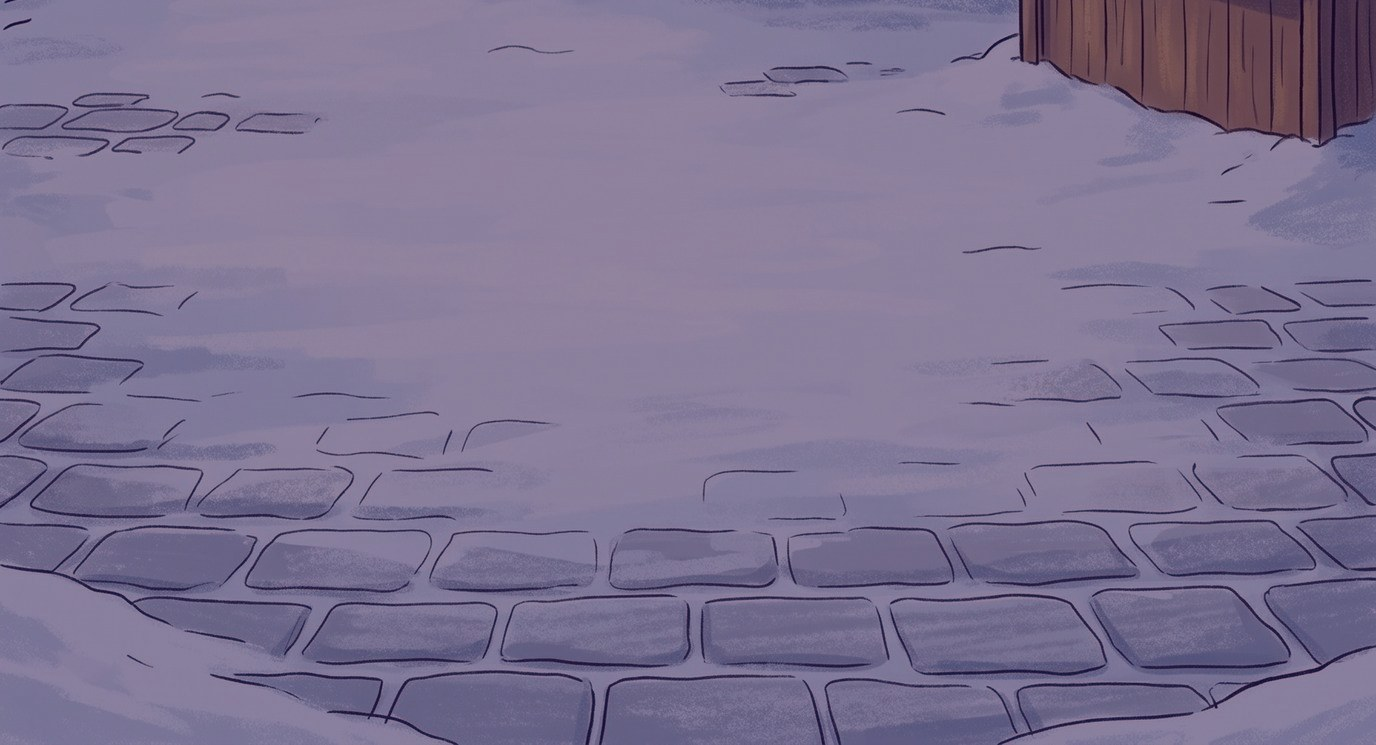
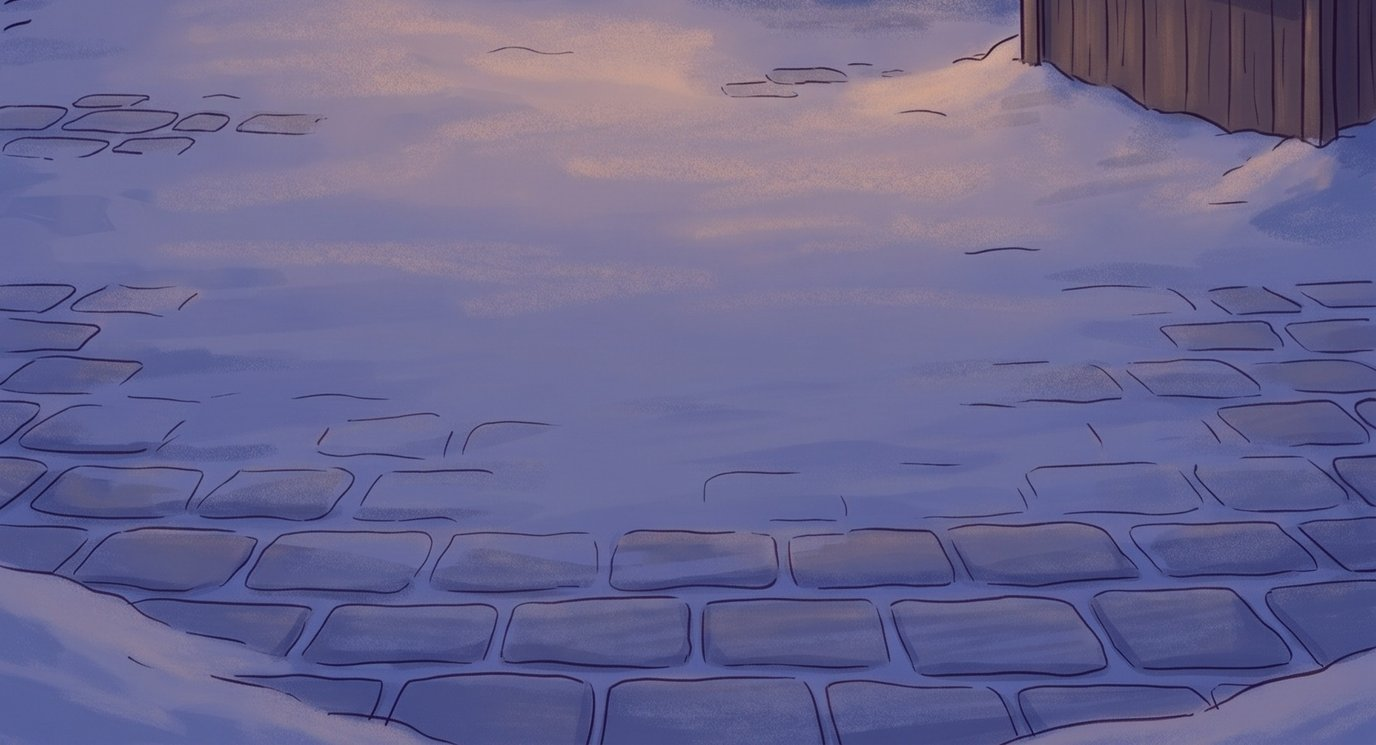
Christmas lighting: the camera runs up the lit tree to its star, then everyone; the friends watch the tree from behind; note memo mockups

diff --git a/index.html b/index.html
@@ -64,7 +64,8 @@ button:focus-visible,input:focus-visible{outline:3px dashed var(--berry);outline
 .scene{position:relative;flex:1 1 auto;min-height:0;overflow:hidden;display:flex;flex-direction:column}
 .stage-area{position:absolute;inset:0;overflow:hidden;background:var(--paper-2)}
 .stage-area .art{width:var(--world-width);height:var(--world-height);transform-origin:0 0;pointer-events:none}
-.art > .art-floor{display:none}
+.art > .art-floor,.art > .art-sky{display:none}
+.stage-area .art-sky{display:block;position:absolute;left:0;bottom:100%;width:100%;height:auto;pointer-events:none}
 .stage-area .art-floor,.art-wrap .art > .art-floor{display:block;position:absolute;left:0;top:100%;width:100%;height:auto;pointer-events:none}
 .art-wrap .art{height:calc(100% * var(--art-share, 1))}
 .stage-area .spot,.stage-area .scene-npc span{display:none}
@@ -3181,11 +3182,11 @@ const CHRISTMAS_CASE = {
           { key:'lighting-invite', en:'The lighting starts soon. Come to the Tree Square!', ko:'곧 점등식이 시작돼. 트리 광장으로 와!' }
         ] },
       { to:'ella', go:{ det:true, key:'tree-thought', en:"Let's go to the Tree Square.", ko:'트리 광장으로 가 보자.' }, goLabel:'트리 광장으로 가기',
-        flag:'night',
+        flag:'night', turn:'lit',
         visit:{ ella:{ place:'tree', x:58, floor:97, height:44 }, holly:{ place:'tree', x:40, floor:97, height:42 }, mae:{ place:'tree', x:48.5, floor:98, height:32 }, tess:{ place:'tree', x:67, floor:97, height:38 } },
         open:{ who:'ella', key:'countdown', en:'Everyone, the star is back! Three, two, one!', ko:'여러분, 별이 돌아왔어요! 셋, 둘, 하나!' },
         lines:[
-          { key:'merry', flag:'lit', wide:{ x:53.5, w:41 }, en:'Merry Christmas!', ko:'메리 크리스마스!' },
+          { key:'merry', flag:'lit', wide:{ x:53.5, w:41, top:300 }, peek:{ x:58, y:-259, w:36 }, en:'Merry Christmas!', ko:'메리 크리스마스!' },
           { det:true, key:'star-shining', en:'The star is shining on the tree!', ko:'트리 위에서 별이 빛나고 있어!' }
         ] }
     ]
@@ -3988,7 +3989,12 @@ Object.assign(SPRITES, {
   'owen:nervous':{src:'assets/characters/owen-nervous-higgsfield.png', w:470, h:700, anchor:.47},
   'owen:sad':{src:'assets/characters/owen-sad-higgsfield.png', w:471, h:700, anchor:.47},
   'nico:nervous':{src:'assets/characters/nico-nervous-higgsfield.png', w:439, h:700, anchor:.47},
-  'nico:sad':{src:'assets/characters/nico-nervous-higgsfield.png', w:439, h:700, anchor:.47}
+  'nico:sad':{src:'assets/characters/nico-nervous-higgsfield.png', w:439, h:700, anchor:.47},
+  // the Christmas lighting: the friends from behind, looking up at the lit tree (one sheet, scripts/cut-christmas-backs.py)
+  'holly:back':{src:'assets/characters/holly-back.png', w:447, h:700, anchor:.5},
+  'mae:back':{src:'assets/characters/mae-back.png', w:349, h:700, anchor:.5},
+  'ella:back':{src:'assets/characters/ella-back.png', w:428, h:700, anchor:.5},
+  'tess:back':{src:'assets/characters/tess-back.png', w:410, h:700, anchor:.5}
 });
 const spriteKey = id => S.mood[id] ? `${id}:${S.mood[id]}` : id;
 // Each sprite's mouth pictures, [x, y, w, h] in sprite px: the drawn mouth painted over with the fur around it, and a
@@ -4265,17 +4271,18 @@ function speak(text, key, who = S.cur, onDone, range, as){
 
 /* ---------- stage ---------- */
 let cameraMotion;
-function animateCamera(art, from, to){
+function animateCamera(art, from, to, ms = 650){
   cameraMotion?.cancel();
   art.style.transform = to;
   if(from && !matchMedia('(prefers-reduced-motion: reduce)').matches){
-    cameraMotion = art.animate([{transform:from}, {transform:to}], {duration:650, easing:'cubic-bezier(.22,.7,.25,1)'});
+    cameraMotion = art.animate([{transform:from}, {transform:to}], {duration:ms, easing:ms > 650 ? 'cubic-bezier(.45,0,.3,1)' : 'cubic-bezier(.22,.7,.25,1)'});
     cameraMotion.onfinish = () => { if(!S.investigate) focusCamera(); };
   }
 }
 // fromRect: the NPC's on-screen rect when coming from the place view. glide: move from the
 // current framing (the note opened or closed).
-function focusCamera(fromRect, glide = false){
+// ms: how long the move takes (a slow pan in the ending)
+function focusCamera(fromRect, glide = false, ms){
   if(S.investigate) return;
   const subject = S.cur;
   const viewport = $('#talkCamera'), art = $('#art'), place = placeOf(placeIdOf(subject));
@@ -4300,19 +4307,25 @@ function focusCamera(fromRect, glide = false){
   const near = height * share / (worldHeight * Math.max(44, position.height) / 100), fit = width * .94 / spriteWidth;
   // a wide shot (ending.wide: a line's wide, { x, w }: the middle and the width it shows, in % of the picture) takes in
   // everyone standing there, their feet low in the scene
-  const wide = ending?.wide;
-  const scale = wide ? Math.max(minScale, Math.min(near, width / (worldWidth * wide.w / 100))) : Math.max(minScale, Math.min(near, fit));
+  // wide.top: world px above the picture to keep in view too (the tree's star, in the sky above it)
+  // a peek (ending.peek, { x, y, w }: x in %, y in world px, w the width shown in %): the camera on one spot (the star)
+  const wide = ending?.wide, peek = ending?.peek;
+  const scale = peek ? Math.max(minScale, width / (worldWidth * peek.w / 100))
+    : wide ? Math.max(minScale, Math.min(near, width / (worldWidth * wide.w / 100), wide.top ? height * .86 / (worldHeight * position.floor / 100 + wide.top) : Infinity))
+    : Math.max(minScale, Math.min(near, fit));
   // in the ending too the camera is on whoever speaks (Fiona while questioned, the partner for his closing line)
-  const centerX = wide ? wide.x : position.x;
-  let top = wide ? height * .86 - worldHeight * position.floor / 100 * scale
+  const centerX = peek ? peek.x : wide ? wide.x : position.x;
+  let top = peek ? height * .3 - peek.y * scale
+    : wide ? height * .86 - worldHeight * position.floor / 100 * scale
     : fit < near ? height * (headTop + share) - worldHeight * position.floor / 100 * scale
     : height * headTop - worldHeight * (position.floor - position.height) / 100 * scale;
   const left = Math.min(0, Math.max(width - worldWidth * scale, width / 2 - worldWidth * centerX / 100 * scale));
-  top = Math.min(0, Math.max(height - fullHeight * scale, top));
+  const sky = ART_SKY[place.id]?.src ? ART_SKY[place.id].h : 0;
+  top = Math.min(sky * scale, Math.max(height - fullHeight * scale, top));
   const bounds = viewport.getBoundingClientRect();
   const from = fromRect?.width ? `translate(${fromRect.left - bounds.left}px, ${fromRect.top - bounds.top}px) scale(${fromRect.width / worldWidth})`
     : glide ? getComputedStyle(art).transform : null;
-  animateCamera(art, from, `translate(${left}px, ${top}px) scale(${scale})`);
+  animateCamera(art, from, `translate(${left}px, ${top}px) scale(${scale})`, ms);
 }
 // the backpack on the picnic table is gone while the detective carries a bag (from Rosie handing it over until she has
 // hers back; user request)
@@ -6614,9 +6627,33 @@ function handoffLine(){
   if(line.take) takeItem(line.take);
   if(line.flag && !S.flags.has(line.flag)){ S.flags.add(line.flag); renderScene(placeIdOf(round.to)); }
   // the whole square from here on (user request: at the lighting, everyone by the lit tree, not Ella alone)
-  if(line.wide !== undefined && ending.wide === undefined){ ending.wide = line.wide; focusCamera(null, true); }
-  if(!line.det) return endingSay({ who:round.to, ...line });
-  sayHandoff(line);
+  // once the round's turn flag is up (the lighting), everyone there looks at the tree from behind but whoever speaks
+  // (user request: they all watch the tree)
+  const turn = speaker => {
+    if(!round.turn || !S.flags.has(round.turn)) return;
+    Object.keys(round.visit || {}).forEach(id => { if(id === speaker) delete S.mood[id]; else S.mood[id] = 'back'; });
+    renderScene(placeIdOf(round.to));
+  };
+  const say = () => { turn(line.det ? null : line.who || round.to); line.det ? sayHandoff(line) : endingSay({ who:round.to, ...line }); };
+  if(line.wide !== undefined && ending.wide === undefined){
+    ending.wide = line.wide;
+    // with a peek (user request: the camera runs up the lit tree to its star): no bubble or button meanwhile, up to the
+    // spot, a moment there, back out to everyone, then the line
+    if(line.peek && !matchMedia('(prefers-reduced-motion: reduce)').matches){
+      const e = ending;
+      ending.peek = line.peek; ending.line = null; renderSay(null); renderAsk(); turn(null);
+      focusCamera(null, true, 2600);
+      clearTimeout(endTimer);
+      endTimer = setTimeout(() => {
+        if(ending !== e) return;
+        ending.peek = null; focusCamera(null, true, 2200);
+        endTimer = setTimeout(() => { if(ending === e) say(); }, 2300);
+      }, 4000);
+      return;
+    }
+    focusCamera(null, true);
+  }
+  say();
 }
 // something handed to the detective in the ending (a line's take): it comes down to them and into 소지품
 function takeItem(id){
@@ -7138,6 +7175,11 @@ const ART = {
 };
 // Floor below each picture's bottom edge (Higgsfield outpaint, cut at the seam). Only the
 // conversation camera shows it, behind the question buttons; investigation keeps the original frame.
+// The picture's continuation above its top edge, shown only in the conversation and ending camera: the lit square's
+// sky with the tree's top and its gold star (the Higgsfield picture's band above the place picture, user request)
+const ART_SKY = {
+  tree:{ get src(){ return S.flags?.has('lit') ? 'assets/places/christmas/tree-lit-sky.jpg' : null; }, h:330 }
+};
 const ART_FLOOR = {
   library:{ src:'assets/places/library-floor.jpg', h:506 },
   bakery: { src:'assets/places/bakery-floor.jpg', h:518 },
@@ -7202,6 +7244,7 @@ function renderScene(placeId = S.place){
   art.style.setProperty('--art-share', artHeight / (artHeight + (floor ? Math.min(floor.h, artHeight * .3) : 0)));
   art.innerHTML = `<svg viewBox="0 0 ${pl.artWidth || 900} ${pl.artHeight || 600}" aria-hidden="true">${ART[pl.id]()}</svg>` +
     (floor ? `<img class="art-floor" src="${floor.src}" alt=""${floor.overlap ? ` style="top:${100 - floor.overlap / artHeight * 100}%"` : ''}>` : '') +
+    (ART_SKY[pl.id]?.src ? `<img class="art-sky" src="${ART_SKY[pl.id].src}" alt="">` : '') +
     pl.spots.filter(s => !s.talk && !(s.folded && S.unfolded) && !(s.open && !S.unfolded) && spotOn(s)).map(s => `<button class="spot${S.found[pl.id].has(s.clue) ? ' found' : ''}" type="button" data-clue="${s.clue}"
       style="left:${s.x}%;top:${s.y}%;width:${s.w}%;height:${s.h}%" aria-label="${esc(pl.clues[s.clue].label)} 살펴보기"></button>`).join('') +
     people.map(id => {

diff --git a/design/ui-note-memo-mockups.html b/design/ui-note-memo-mockups.html
@@ -1,0 +1,118 @@
+<!doctype html>
+<html lang="ko">
+<head>
+<meta charset="utf-8">
+<meta name="viewport" content="width=device-width,initial-scale=1">
+<title>탐정 메모 노트 시안</title>
+<style>
+@font-face{font-family:"Paperlogy";src:url("../assets/fonts/Paperlogy-4Regular.woff2") format("woff2");font-weight:400}
+@font-face{font-family:"Paperlogy";src:url("../assets/fonts/Paperlogy-7Bold.woff2") format("woff2");font-weight:700}
+@font-face{font-family:"Paperlogy Display";src:url("../assets/fonts/Paperlogy-6SemiBold.woff2") format("woff2");font-weight:400}
+:root{--ground:#B6BDA5;--paper:#FBF4E6;--paper-2:#F4EAD4;--ink:#4A3628;--ink-soft:#7D6A58;--honey:#F2CF73;--berry:#C96F86;--moss:#8DB48E;--blue:#3E5B7E;--line:#E3D5B8;--r-wobble:18px 22px 16px 24px / 22px 16px 24px 18px}
+*{box-sizing:border-box}
+body{margin:0;background:var(--ground);color:var(--ink);font-family:"Paperlogy",system-ui,sans-serif;line-height:1.55}
+main{max-width:1240px;margin:0 auto;padding:28px 16px 60px}
+h1{font-family:"Paperlogy Display",sans-serif;font-weight:400;font-size:26px;margin:0 0 6px}
+.lead{margin:0 0 8px;color:var(--ink-soft);max-width:860px}
+.rule{margin:0 0 22px;font-size:13.5px;color:var(--ink-soft)}
+.opts{display:flex;flex-wrap:wrap;gap:18px}
+.opt{flex:1 1 280px;max-width:380px;background:var(--paper);border:2px solid var(--ink);border-radius:var(--r-wobble);padding:16px}
+.opt h2{font-family:"Paperlogy Display",sans-serif;font-weight:400;font-size:18px;margin:0 0 4px}
+.opt h2 b{display:inline-grid;place-items:center;min-width:28px;height:28px;margin-right:6px;border-radius:14px;background:var(--honey);border:2px solid var(--ink);font-size:14px}
+.opt.now h2 b{background:#ddd}
+.tag{display:inline-block;font-size:11px;padding:1px 8px;border-radius:10px;background:var(--moss);color:#fff;vertical-align:middle}
+.sum{margin:4px 0 12px;font-size:13.5px}
+/* the notebook page */
+.page{background:#FFFDF6;border:1.5px solid var(--line);border-radius:6px;padding:12px 14px 14px;box-shadow:inset 22px 0 0 -20px #E8B8C2;background-image:repeating-linear-gradient(#fffdf6 0 33px,var(--line) 33px 34px);font-size:17px;line-height:34px}
+.who{display:flex;align-items:center;gap:8px;font-family:"Paperlogy Display";font-size:13px;color:var(--ink-soft);line-height:34px}
+.who i{width:26px;height:26px;border-radius:50%;background:#E8E0D0 url(../assets/characters/ella-higgsfield.png) -5px -2px/40px auto no-repeat;box-shadow:0 0 0 1.5px #fff}
+.q{font-family:"Paperlogy Display";font-size:13px;color:var(--ink-soft)}
+.b{display:inline-block;min-width:56px;padding:0 9px;margin:0 2px;line-height:26px;border-radius:9px;background:#EEF0F2;color:var(--blue);font-weight:700;text-align:center}
+.k{font-family:"Paperlogy Display";font-size:12px;color:var(--berry);margin-right:6px}
+.dash{color:var(--ink-soft)}
+ul.m{margin:0;padding:0 0 0 18px}
+ul.m li{margin:0}
+.form{display:grid;grid-template-columns:auto 1fr;column-gap:10px}
+.form .k{line-height:34px;text-align:right}
+.arrow{color:var(--berry);font-weight:700;margin:0 4px}
+.doodle{display:flex;gap:10px;align-items:flex-start;line-height:30px}
+.doodle svg{flex:none}
+.sketch{font-size:16px}
+</style>
+</head>
+<body>
+<main>
+<h1>탐정 메모 노트 시안</h1>
+<p class="lead">지금 노트는 대답을 따옴표 그대로 옮겨 적는다. 탐정이 수첩에 적듯 짧은 메모로 바꾸는 모양 시안. 예시는 크리스마스 사건 엘라의 세 대답(e0–e2), 빈칸이 모두 채워진 상태.</p>
+<p class="rule">지켜야 할 규칙(사용자 결정): 빈칸은 대답에서 실제로 들리는 말만(star·missing·gold·heavy·leaf·case·storeroom·shelf 그대로). 메모의 나머지 글자는 탐정이 적은 것이라 문장이 아니어도 된다. 원문 전체는 지금처럼 <b>지문</b>에서 본다.</p>
+
+<div class="opts">
+  <section class="opt now">
+    <h2><b>지금</b>대답 그대로</h2>
+    <p class="sum">비교용. 들은 문장을 처음부터 끝까지 옮겨 적는다.</p>
+    <div class="page">
+      <div class="who"><i></i>Ella Deer</div>
+      <div class="q">Q. What happened?</div>
+      “I went to show the children around the festival. When I came back, the <span class="b">star</span> was <span class="b">missing</span>.”
+      <div class="q">Q. What does the star look like?</div>
+      “It's real <span class="b">gold</span>, so it's very <span class="b">heavy</span>. It has a small <span class="b">leaf</span> pattern on the back.”
+    </div>
+  </section>
+
+  <section class="opt">
+    <h2><b>A</b>짧은 줄 메모 <span class="tag">추천</span></h2>
+    <p class="sum">질문은 빼고, 한 줄에 사실 하나. 대답의 앞뒤 말은 줄이고 빈칸 둘레만 남긴다. 지금 노트 화면에서 글만 바꾸면 되어 모든 사건에 가장 쉽게 넣는다.</p>
+    <div class="page">
+      <div class="who"><i></i>Ella Deer</div>
+      <ul class="m">
+        <li>showed kids around the festival</li>
+        <li>came back → <span class="b">star</span> <span class="b">missing</span></li>
+        <li>real <span class="b">gold</span>, very <span class="b">heavy</span></li>
+        <li>small <span class="b">leaf</span> pattern on the back</li>
+        <li>kept in its <span class="b">case</span>, <span class="b">storeroom</span> <span class="b">shelf</span></li>
+      </ul>
+    </div>
+  </section>
+
+  <section class="opt">
+    <h2><b>B</b>수사 기록 카드</h2>
+    <p class="sum">왼쪽에 항목 이름(분홍), 오른쪽에 메모. 사건마다 항목(물건·때·곳·누가)을 정해 두면 추리 보드와 바로 이어진다. 항목 이름은 설계서에서 정해야 한다.</p>
+    <div class="page">
+      <div class="who"><i></i>Ella Deer</div>
+      <div class="form">
+        <span class="k">WHAT</span><span>the <span class="b">star</span> is <span class="b">missing</span></span>
+        <span class="k">WHEN</span><span>while showing kids around</span>
+        <span class="k">LOOKS</span><span>real <span class="b">gold</span> · <span class="b">heavy</span></span>
+        <span class="k">MARK</span><span><span class="b">leaf</span> pattern (back)</span>
+        <span class="k">WHERE</span><span><span class="b">case</span> · <span class="b">storeroom</span> <span class="b">shelf</span></span>
+      </div>
+    </div>
+  </section>
+
+  <section class="opt">
+    <h2><b>C</b>화살표 흐름</h2>
+    <p class="sum">일이 일어난 차례를 화살표로 잇는다. 시간 순서가 중요한 사건(알리바이)에 잘 맞고, 짧은 대답은 한 줄로 끝난다.</p>
+    <div class="page">
+      <div class="who"><i></i>Ella Deer</div>
+      festival tour <span class="arrow">→</span> back <span class="arrow">→</span> <span class="b">star</span> <span class="b">missing</span><br>
+      star <span class="arrow">=</span> <span class="b">gold</span> <span class="arrow">+</span> <span class="b">heavy</span> <span class="arrow">+</span> <span class="b">leaf</span> (back)<br>
+      <span class="b">case</span> <span class="arrow">→</span> <span class="b">storeroom</span> <span class="b">shelf</span>
+    </div>
+  </section>
+
+  <section class="opt">
+    <h2><b>D</b>낙서 + 메모</h2>
+    <p class="sum">물건을 연필 낙서로 그리고 둘레에 메모를 단다. 가장 탐정 수첩 같지만, 대답마다 작은 그림이 필요해 사건마다 그림 작업이 늘어난다.</p>
+    <div class="page sketch">
+      <div class="who"><i></i>Ella Deer</div>
+      <div class="doodle">
+        <svg width="70" height="66" viewBox="0 0 70 66" aria-hidden="true"><path d="M35 4l8.5 19.5 21 2-16 14 4.8 20.5L35 49 16.7 60l4.8-20.5-16-14 21-2z" fill="#F7E2A0" stroke="#4A3628" stroke-width="2" stroke-linejoin="round"/><path d="M30 40c4-6 8-6 10 0" fill="none" stroke="#6E9A62" stroke-width="2"/></svg>
+        <div>← <span class="b">star</span> <span class="b">missing</span><br>real <span class="b">gold</span>, <span class="b">heavy</span><br><span class="b">leaf</span> on the back</div>
+      </div>
+      in its <span class="b">case</span> on the <span class="b">storeroom</span> <span class="b">shelf</span>
+    </div>
+  </section>
+</div>
+</main>
+</body>
+</html>

diff --git a/scripts/make-christmas-night-pieces.py b/scripts/make-christmas-night-pieces.py
@@ -1,0 +1,22 @@
+# The square's floor under the picture (tree-floor.jpg) for the night: each colour channel is mapped so the day
+# picture's bottom strip matches the night picture's (mean and spread), the way tree-night.jpg was darkened from the
+# day picture. The lit square's floor and sky come straight from its Higgsfield picture (the lit sky / floor block).
+# Run from the project folder: python scripts/make-christmas-night-pieces.py
+from PIL import Image, ImageStat
+D = 'assets/places/christmas/'
+day = Image.open(D + 'tree.jpg').convert('RGB')
+floor = Image.open(D + 'tree-floor.jpg').convert('RGB')
+strip = lambda im: ImageStat.Stat(im.crop((0, im.height - 120, im.width, im.height)))
+for name in ('night',):
+    s, t = strip(day), strip(Image.open(D + f'tree-{name}.jpg').convert('RGB'))
+    bands = [band.point(lambda v, c=c: max(0, min(255, round((v - s.mean[c]) * t.stddev[c] / s.stddev[c] + t.mean[c]))))
+             for c, band in enumerate(floor.split())]
+    out = Image.merge('RGB', bands)
+    out.save(D + f'tree-floor-{name}.jpg', quality=88)
+    print(name, [round(v) for v in ImageStat.Stat(out).mean])
+
+# the lit picture as scale-and-band cut it (scripts/cut-christmas-assets.py, top 330): above the band its sky with the
+# tree's top and gold star, below it its floor
+lit = Image.open(D + 'tree-lit-higgsfield-original.jpg').convert('RGB').resize((1376, 1843), Image.LANCZOS)
+lit.crop((0, 0, 1376, 330)).save(D + 'tree-lit-sky.jpg', quality=88)
+lit.crop((0, 1098, 1376, 1843)).save(D + 'tree-floor-lit.jpg', quality=85)

diff --git a/scripts/cut-christmas-backs.py b/scripts/cut-christmas-backs.py
@@ -1,0 +1,31 @@
+"""Cut the four back views (Holly, Mae, Ella, Tess looking up at the lit tree) out of their Higgsfield sheet.
+
+usage: python scripts/cut-christmas-backs.py
+  reads assets/characters/xmas-backs-higgsfield-original.png (flat magenta background), writes
+  assets/characters/<holly|mae|ella|tess>-back.png: magenta keyed out (soft edge, pink fringe pulled back to the
+  neighbouring colour), each figure by its columns of opaque pixels, trimmed with a 3% margin, 700 px high.
+"""
+import importlib.util, sys
+sys.argv[1:] = ["."]   # cut-christmas-assets reads its download folder at import
+from PIL import Image
+
+spec = importlib.util.spec_from_file_location('cut', 'scripts/cut-christmas-assets.py')
+cut = importlib.util.module_from_spec(spec); spec.loader.exec_module(cut)
+
+src = Image.open('assets/characters/xmas-backs-higgsfield-original.png').convert('RGBA')
+px = src.load()
+w, h = src.size
+for y in range(h):
+    for x in range(w):
+        r, g, b, _ = px[x, y]
+        # how magenta: red and blue high above green
+        m = min(r, b) - g
+        if m > 120: px[x, y] = (0, 0, 0, 0)
+        elif m > 50:
+            a = round(255 * (120 - m) / 70)
+            k = min(r, b) - max(g, 0)
+            px[x, y] = (max(0, r - k // 2), g, max(0, b - k // 2), a)
+for name, (x0, x1) in zip(['holly', 'mae', 'ella', 'tess'], cut.opaque_runs(src, 0, 12)):
+    fig = cut.trim(src.crop((x0, 0, x1, h)), height=700)
+    fig.save(f'assets/characters/{name}-back.png')
+    print(name, x0, x1, fig.size)

diff --git a/HANDOFF.md b/HANDOFF.md
@@ -143,7 +143,7 @@ node server.js            # http://localhost:5173/
 ### 3.0.3 다섯째 사건: 사라진 크리스마스트리의 별 (`?case=christmas`)
 
 - **데이터**: `CHRISTMAS_CASE`(설계서 `design/case-10-christmas-star.md`). 사건 카드 Case 05(도서관 다음), 이번 사건의 열쇠 `GRAMMAR['present-prog']` 4쪽(긍정·부정·Are you -ing?·What are you -ing?, 설계서 §8 예문; 예문 음성 `audio/examples/present-prog-*.wav`는 아직 없음). 저장 키 `detective.save.christmas`. 단어장·노트 뜻에 이 사건의 빈칸 단어를 없는 것만 더했다(`WORDS`·`GLOSS`).
-- **그림**(Higgsfield, `assets/places/christmas/`·`assets/characters/`, 7절 README): 광장(낮·어둡게 한 밤·불 켜진 트리), 창고(저울을 가져가면 저울 없는 판), 천막(작업대 관찰 뒤 자동차 상자가 포장되고 클립보드 체크 넷), 썰매(상자를 열면 상자 속 금별; 저울은 들고 있어도 썰매 그림에 놓지 않음, 사용자 의견), 창고 모퉁이 사진, 확대 조사 셋(장난감 작업대·별 장난감 뒷면·금별 뒷면, 흐린 장소 위), 축제장 지도(`PACK.map`). 장갑 상자를 누르면 그 자리에서 털장갑 상자가 잠깐 열렸다 닫힌다(`clue.peek`, `peekAt()`). 홀리·메이·니코와 니코 당황 표정(`nico:sad`도 같은 그림). 말하는 입·얼굴 아이콘은 아직 없음. **음성**(Higgsfield MiniMax, 감정 없음, `audio/christmas/`, 목록은 `scripts/christmas-voice-lines.js`가 게임 데이터에서 뽑음): 탐정 Grady 104문장(질문·행동·인사·생각·현장 관찰·소지품·추리 보드 `deduce/`·심문·마무리), 오소리 경사 Fraser 6줄, 엘라 Petra 12줄(사용자 결정: 감정 없이), 같은 문장은 파일을 복사해 128파일. 홀리·메이·테스·니코는 아직 브라우저 음성.
+- **그림**(Higgsfield, `assets/places/christmas/`·`assets/characters/`, 7절 README): 광장(낮·어둡게 한 밤·불 켜진 트리), 창고(저울을 가져가면 저울 없는 판), 천막(작업대 관찰 뒤 자동차 상자가 포장되고 클립보드 체크 넷), 썰매(상자를 열면 상자 속 금별; 저울은 들고 있어도 썰매 그림에 놓지 않음, 사용자 의견), 밤·점등 판 바닥(`tree-floor-night.jpg`은 낮 바닥 색을 맞춤, `tree-floor-lit.jpg`·하늘 `tree-lit-sky.jpg`은 점등 원본에서 자름, `scripts/make-christmas-night-pieces.py`; 하늘은 대화·엔딩 카메라에서만 그림 위에 붙음 `ART_SKY`), 창고 모퉁이 사진, 확대 조사 셋(장난감 작업대·별 장난감 뒷면·금별 뒷면, 흐린 장소 위), 축제장 지도(`PACK.map`). 장갑 상자를 누르면 그 자리에서 털장갑 상자가 잠깐 열렸다 닫힌다(`clue.peek`, `peekAt()`). 홀리·메이·니코와 니코 당황 표정(`nico:sad`도 같은 그림). 말하는 입·얼굴 아이콘은 아직 없음. **점등 엔딩**(사용자 요청): "Merry Christmas!" 줄에서 말풍선·버튼을 숨기고 카메라가 트리를 타고 꼭대기 금별까지 천천히 올라갔다가(`peek`, 2.6초, 4초 머묾) 별과 넷이 다 보이는 넓은 화면으로 내려온 뒤(`wide.top`: 그림 위 300px까지 보이게) 엘라가 말한다. 불이 켜진 뒤로는 홀리·메이·엘라·테스가 뒷모습으로 트리를 보고, 말하는 사람만 앞을 본다(라운드의 `turn:'lit'`, `S.mood`=`back`, 뒷모습은 한 장 `xmas-backs-higgsfield-original.png`에서 `scripts/cut-christmas-backs.py`로 자름). **음성**(Higgsfield MiniMax, 감정 없음, `audio/christmas/`, 목록은 `scripts/christmas-voice-lines.js`가 게임 데이터에서 뽑음): 탐정 Grady 104문장(질문·행동·인사·생각·현장 관찰·소지품·추리 보드 `deduce/`·심문·마무리), 오소리 경사 Fraser 6줄, 엘라 Petra 12줄(사용자 결정: 감정 없이), 같은 문장은 파일을 복사해 128파일. 홀리·메이·테스·니코는 아직 브라우저 음성.
 - **흐름**: 경사(광장 입구) → 행동 "What's missing?" → 경사가 떠나고(`gone`) 생각 뒤 안내소에 엘라(`thoughts[].unlocks`) → 엘라 e0 → e1·e2(e2로 창고·이름 없는 양 홀리, 엘라의 물품 확인 허락 `after`) → 창고 사진(보관함 → 반짝이, 바깥 자국)·홀리 h1–h4(h4는 바깥 자국 사진 뒤) → h3로 천막의 메이·테스 → 테스는 받아쓰기 없는 행동 두 개(별 목격·창고 이유) 뒤 t1, `장난감들을 봐도 돼?`(확대 조사 `toys`, c-toys·장난감 자동차) → t3로 썰매의 니코(`unnamed:'Penguin'`) → 니코 n1–n5(창고 이유는 행동, n5는 썰매 바닥 사진 뒤) → n4 뒤 생각 → 테스 t4·`뒷면을 봐도 돼?`(확대 조사 `toystar`) → 썰매에서 `Tess's table` 관찰(`!table-seen`) → 추리 9문항 → `니코 심문 시작`.
 - **심문**(`ending.script`): 탐정의 선택 대사 → 주장 셋(테스의 선물 t3/c-toys, 메이 m3, 테스의 별 t4/c-toy-star; 틀리면 그 주장의 탐정 줄 `miss`) → 경사·엘라가 썰매에 합류(`join`, `PACK.lateJoin`·`joinPositions`)·개봉 지시(`open-order` 깃발) → **심문 멈춤**(`scene:'sleigh', until:['starback-0']`): 심문 화면이 닫히고 썰매 현장으로. 상자 다섯 중 장갑 상자는 "Just mittens in this one.", 셋째 상자를 열면 금별이 소지품에 들어오고(`box-open`) 상자 속 별 사진 → `Back of the star`(확대 조사 `starback`, `back:'sleigh'`) 사진을 찍고 노트를 닫으면 심문이 다음 주장부터 다시(게이지 그대로, `S.scriptPause`). 멈춘 동안 지도로 창고에 다녀올 수 있고, 창고 구석 저울은 개봉 지시 뒤에 주울 수 있다. **저울 쓰기**(사용자 선택 시안): 썰매에서 `소지품` → 저울 → `쓰기`(`items.scale.use`: 개봉 지시 뒤·상자를 열기 전, 썰매에서만) → 확대 조사 `weigh`(흐린 썰매 위 저울과 그 아래 상자 다섯 줄, 썰매와 같은 순서). 상자를 누르면 빈 접시로 올라가고(둘 다 차 있으면 오른쪽과 바뀜), 접시 위 상자를 누르면 내려온다. 무거운 쪽으로 8° 기울고 같으면 수평(`balance.weights` 1·1·3·1·1, 셋째가 별), 탐정은 말하지 않는다. 저울 그림 한 장을 팔 둘·접시 둘·기둥으로 잘라 돌린다(`WEIGH`, `weighArt()`, `plates`). `<`로 썰매에 돌아간다(`back:'sleigh'`). 테스트 도구는 이 상자들을 증거로 모으지 않는다. → 별이 아니라는 주장에 c-mark → 자백·경사가 니코를 데려감(니코·경사 `gone:['!confessed']`).
 - **반환·점등식**(`ending.handoff`): 썰매 앞의 엘라에게 이동 없이 금별 건네기 → 엘라의 초대 → `트리 광장으로 가기`: 그 차례의 `visit`로 엘라·홀리·메이·테스가 광장에 서고 `flag:'night'`(밤), "Merry Christmas!" 줄의 `flag:'lit'`(불 켜진 트리)와 `wide:{ x, w }`(사용자 요청: 엘라만 보이지 않게, 카메라가 천천히 뒤로 빠져 켜진 트리 앞의 엘라·홀리·메이·테스를 한 화면에, `ending.wide`가 있으면 `focusCamera()`가 그 폭에 맞춤, 마지막 탐정 줄까지 유지; 광장에 선 자리는 홀리 40·메이 48.5·엘라 58·테스 67%) → 복습.

diff --git a/assets/characters/README.md b/assets/characters/README.md
@@ -143,3 +143,7 @@ Draw a NEW character in exactly the same art style, proportions, size and framin
 
 - 홀리(양)·메이(생쥐, 앉아서 가위질)·니코(펭귄) 한 장 `b7571dd2-ea5c-4ea3-86bd-4f79f863a91f` → `holly-mae-nico-higgsfield-original.jpg`(16:9 2K, 2크레딧, 참조 엘라·핀과 테스·루비 시트 업로드 media `5ed35ee6-…`·`37934cf2-…`), 배경 제거 `a2a05aec-…`. 니코 당황 `8e15f2a7-c1f5-4829-be44-973fab4497d3` → `nico-nervous-original.jpg`(1K, 1.5크레딧), 배경 제거 `45c2e2c2-…`.
 - `scripts/cut-christmas-assets.py`로 인물마다 잘라 높이 700(`holly-`·`mae-`·`nico-`·`nico-nervous-higgsfield.png`). 말하는 입(`MOUTHS`)·얼굴 아이콘(`ui/icons-v2`)은 아직 만들지 않았다(얼굴은 `SPRITES[].face`로 그림에서 잘라 보임).
+
+## 크리스마스 점등: 뒷모습 넷
+
+- 사용자 요청(점등 때 모두 트리를 보게, 뒷모습은 한 장에만). Higgsfield Nano Banana 2.1, 16:9, 1K, thinking high, 참조 `ella-finn-`·`holly-mae-nico-`·`tess-ruby-higgsfield-original.jpg`, job `b5ff3ce7-2534-4964-a7e6-e1c6bd91b4c9`(약 1.5크레딧) → `xmas-backs-higgsfield-original.png`(마젠타 배경, 왼쪽부터 홀리·메이(의자 위)·엘라·테스). `scripts/cut-christmas-backs.py`가 `holly|mae|ella|tess-back.png`(높이 700)로 자른다.
